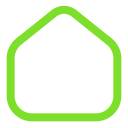
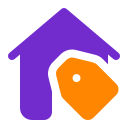
Chnage colors, fixes

diff --git a/lib/main.dart b/lib/main.dart
@@ -60,20 +60,20 @@ class MyApp extends StatelessWidget {
       themeMode: ThemeMode.dark,
       darkTheme: ThemeData.dark().copyWith(
         drawerTheme: DrawerThemeData(backgroundColor: AppColors.darkBackground),
-        chipTheme: ChipThemeData(backgroundColor: AppColors.accentBackground, secondaryLabelStyle: TextStyle(color: Colors.black)),
+        chipTheme: ChipThemeData(backgroundColor: AppColors.accentBackground, secondaryLabelStyle: TextStyle(color: Colors.white)),
         textSelectionTheme: TextSelectionThemeData(
           cursorColor: AppColors.primaryColor
         ),
         inputDecorationTheme: InputDecorationTheme(
             floatingLabelStyle: TextStyle(color: AppColors.primaryColor),
             focusedBorder: UnderlineInputBorder(
-                borderSide: const BorderSide(color: Color(0xff7ddf2b)))),
+                borderSide: const BorderSide(color: Color(0xff722cce)))),
         scaffoldBackgroundColor: AppColors.darkBackground,
         cardTheme: CardTheme(color: AppColors.accentBackground),
         dropdownMenuTheme: ThemeData.dark().dropdownMenuTheme.copyWith(),
         floatingActionButtonTheme: FloatingActionButtonThemeData(
             backgroundColor: AppColors.primaryColor,
-            foregroundColor: Colors.black),
+            foregroundColor: Colors.white),
         bottomNavigationBarTheme: BottomNavigationBarThemeData(
             selectedItemColor: AppColors.primaryColor,
             selectedIconTheme: IconThemeData(color: AppColors.primaryColor),

diff --git a/lib/view/resources/colors.dart b/lib/view/resources/colors.dart
@@ -21,7 +21,7 @@ class AppColors {
     return MaterialColor(color.value, swatch);
   }
 
-  static MaterialColor primaryColor = createMaterialColor(Color(0xff7ddf2b));
+  static MaterialColor primaryColor = createMaterialColor(Color(0xff722cce));
   static Color listDividerColor = Color.fromRGBO(255, 255, 255, 0.359);
   static Color descriptionDividerColor = Colors.white;
   static Color darkBackground = Color.fromRGBO(22, 22, 34, 1);

diff --git a/lib/services/telegram.dart b/lib/services/telegram.dart
@@ -19,7 +19,7 @@ class TelegramService {
         .numberOfFloors}-этажный\n"
         "${NumberFormattingHelper.format(flat.publicPrice ?? flat.price)}\$ стартовая цена";
     List<Map<String, dynamic>> media = [];
-    for (var photo in flat.photos.where((element) => element['watermarked'] == 1)) {
+    for (var photo in flat.photos) {
       media.add({
         "type": 'photo',
         "media": photo['url'],

diff --git a/lib/view/components/flat.component.dart b/lib/view/components/flat.component.dart
@@ -115,7 +115,7 @@ class FlatComponent extends StatelessWidget {
                       style: TextStyle(
                           fontSize: 18,
                           fontWeight: FontWeight.w800,
-                          color: Colors.black),
+                          color: Colors.white),
                     ),
                   ),
                   SizedBox(
